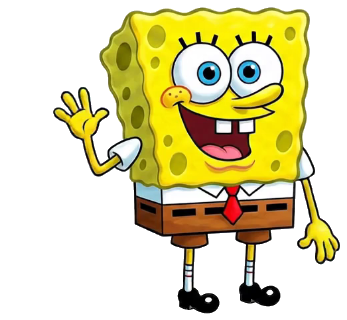
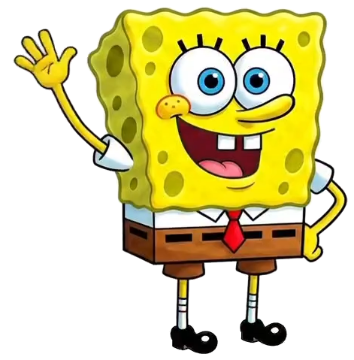
Bob novo, a partir do bob-2.mp4, com recorte de fundo refeito

diff --git a/index.html b/index.html
@@ -77,7 +77,7 @@
   <div id="bob" class="bob" hidden>
     <picture class="bob-figure" aria-hidden="true">
       <source srcset="./img/bob-parado.png" media="(prefers-reduced-motion: reduce)">
-      <img src="./img/bob.webp" alt="" width="347" height="320">
+      <img src="./img/bob.webp" alt="" width="354" height="360">
     </picture>
     <button type="button" id="bob-bubble" class="bob-bubble">
       O que faremos hoje?

diff --git a/sw.js b/sw.js
@@ -12,7 +12,7 @@
  */
 'use strict';
 
-var CACHE_NAME = 'checklist-v13';
+var CACHE_NAME = 'checklist-v14';
 
 var ASSETS = [
   './',

diff --git a/claude.md b/claude.md
@@ -46,7 +46,7 @@ App de checklist (uma única lista) feito como PWA estático e publicado no GitH
 │   ├── avatar-1.png       foto de perfil pronta (preto e branco, de logo.jpeg)
 │   └── avatar-2.png       foto de perfil pronta (colorida, de icons/icon-2.png)
 ├── img/
-│   ├── bob.webp           Bob Esponja acenando, animado e com fundo transparente (347×320, 51 quadros)
+│   ├── bob.webp           Bob Esponja acenando, animado e com fundo transparente (354×360, 51 quadros, 24 por segundo)
 │   └── bob-parado.png     primeiro quadro, para quem pede movimento reduzido
 ├── screenshots/
 │   ├── wide.png           captura de PC (1280×800) para a janela de instalação
@@ -57,7 +57,7 @@ App de checklist (uma única lista) feito como PWA estático e publicado no GitH
 
 Arquivos de origem (não usados pelo app nem cacheados pelo SW):
 - `logo.jpeg` (foto antiga, preto e branco) e `icons/icon-2.png` (foto atual, colorida): fotos para gerar ícones e fotos de perfil. Estão no repo.
-- `icons/bob.mp4` (origem do `img/bob.webp`) e `img/bob-2.mp4` (outro vídeo do Bob enviado pelo usuário, uso ainda não definido): ficam **fora do git**.
+- `img/bob-2.mp4` (origem do `img/bob.webp` atual) e `icons/bob.mp4` (primeiro vídeo do Bob, trocado porque o usuário não gostou do resultado): ficam **fora do git**.
 
 ## Especificação
 
@@ -98,11 +98,14 @@ Decidido com o usuário (as decisões marcadas com * foram tomadas sem perguntar
 
 - Ao abrir o app (evento `load`) e sempre que a pessoa volta para ele (`visibilitychange`), depois de 0,5 s, o Bob sobe do canto inferior direito acenando, com o balão **"O que faremos hoje?"** à direita dele (a pontinha do balão aponta para o Bob, à esquerda; antes ficava do outro lado e o usuário pediu para trocar). Tocar no Bob ou no balão foca o campo "O que precisa fazer?" e ele sai. Ele também sai sozinho depois de 8 s ou quando o campo ganha foco. Não aparece se houver um painel aberto (`dialog[open]`) ou se o campo estiver com foco, e não reinicia a animação se ainda estiver na tela.
 - O contêiner `#bob` tem `pointer-events: none` (só o Bob e o balão recebem toque), e com a faixa de atualização aberta (`body.has-update`) ele sobe para ficar acima dela. Com `prefers-reduced-motion`, o `<picture>` troca a animação por `img/bob-parado.png`.
-- **Origem da imagem** (o mesmo processo serve para outros vídeos de fundo liso): o usuário forneceu `icons/bob.mp4` (1280×720, 3,4 s, fundo branco com faixas pretas). Como MP4 não tem transparência e WebM com transparência não funciona no iPhone, o vídeo virou **WebP animado com alfa** (funciona em Chrome, Edge, Android e Safari 14+), gerado por um script Node que dirige o Edge (sem ffmpeg nesta máquina), guardado fora do repo:
-  - recorte: caixa calculada com todos os quadros (30 por segundo) + margem, reduzido para 320 px de altura, 15 quadros por segundo;
-  - fundo: branco quase puro e neutro ligado à borda do quadro vira transparente, com contorno suave (alfa pela "brancura" e cor descontaminada do branco, sem auréola);
-  - buracos: região branca **fechada** que é fundo em ≥ 50% dos outros quadros, com ≥ 150 px e cor média ≥ 249 também vira transparente (é o vão entre o braço e a cabeça, e entre o braço na cintura e o corpo). Olhos, dentes e camisa nunca são fundo; a manga, que muda de lugar, é pequena e sombreada. Limites tirados da medição de todas as regiões fechadas dos 51 quadros;
-  - montagem: cada quadro sai do canvas como WebP e é empacotado num RIFF com `VP8X` (alfa + animação), `ANIM` (repetição infinita) e um `ANMF` por quadro (67 ms).
+- **Origem da imagem** (o mesmo processo serve para outros vídeos de fundo liso): `img/bob-2.mp4` (1280×720, 2,1 s, 24 quadros por segundo, fundo branco com faixas pretas em cima e embaixo). O primeiro vídeo (`icons/bob.mp4`) foi trocado por este a pedido do usuário. Como MP4 não tem transparência e WebM com transparência não funciona no iPhone, o vídeo virou **WebP animado com alfa** (funciona em Chrome, Edge, Android e Safari 14+), gerado por um script Node que dirige o Edge (sem ffmpeg nesta máquina), guardado fora do repo:
+  - quadros: os 51 do vídeo (24 por segundo, nenhum descartado, para o aceno ficar suave), cada um pego no meio do seu tempo; o último emenda com o primeiro, então o loop não pula;
+  - recorte: caixa com o Bob em todos os quadros + 8 px de margem, reduzida para 360 px de altura (140 px na tela × 3 de densidade no celular);
+  - fundo: pixel quase branco e neutro (mínimo de RGB ≥ 225, diferença entre canais ≤ 24) ligado à borda vira transparente. Na faixa de 2 px entre o fundo e o Bob, o alfa sai por "cor para alfa" (o menor alfa que explica a cor como mistura com branco, com a cor descontaminada do branco e 4% de folga para o ruído de compressão), então o contorno fica suave e sem auréola branca em fundo escuro;
+  - buracos (regiões brancas **fechadas**): o vão entre o braço que acena e a cabeça é reconhecido porque, em outros quadros, aqueles pixels são fundo ligado à borda (≥ 30% da região é fundo em ≥ 3 quadros); o vão entre o braço na cintura e o corpo nunca se abre (o braço não se mexe), então é marcado por um ponto fixo (776, 478). Olhos, dentes, camisa, mangas, meias e brilho do sapato nunca são fundo em quadro nenhum e ficam opacos;
+  - entre os dedos: o borrão de movimento deixa pixels cinza-claro que não passam no teste de branco. Só na área por onde a mão passa (fundo em ≥ 3 outros quadros), pixel claro e sem cor (mínimo ≥ 150, diferença ≤ 50) também vira fundo; o amarelo da mão tem muita cor e não é afetado. Os triângulos cinza-escuro embaixo dos sapatos são sombra do desenho e ficam;
+  - montagem: cada quadro sai do canvas como WebP (qualidade 0,85) e é empacotado num RIFF com `VP8X` (alfa + animação), `ANIM` (repetição infinita) e um `ANMF` por quadro (41–42 ms, sem mistura com o quadro anterior). Resultado: cerca de 1,2 MB. `img/bob-parado.png` é o primeiro quadro;
+  - conferência: imagens de diagnóstico (fundo e buracos pintados) e o recorte ampliado sobre fundo escuro, procurando lascas e auréolas; `ImageDecoder` confirma animação, 51 quadros e repetição infinita.
 
 ## Painel Personalizar (`settings.js`)
 
